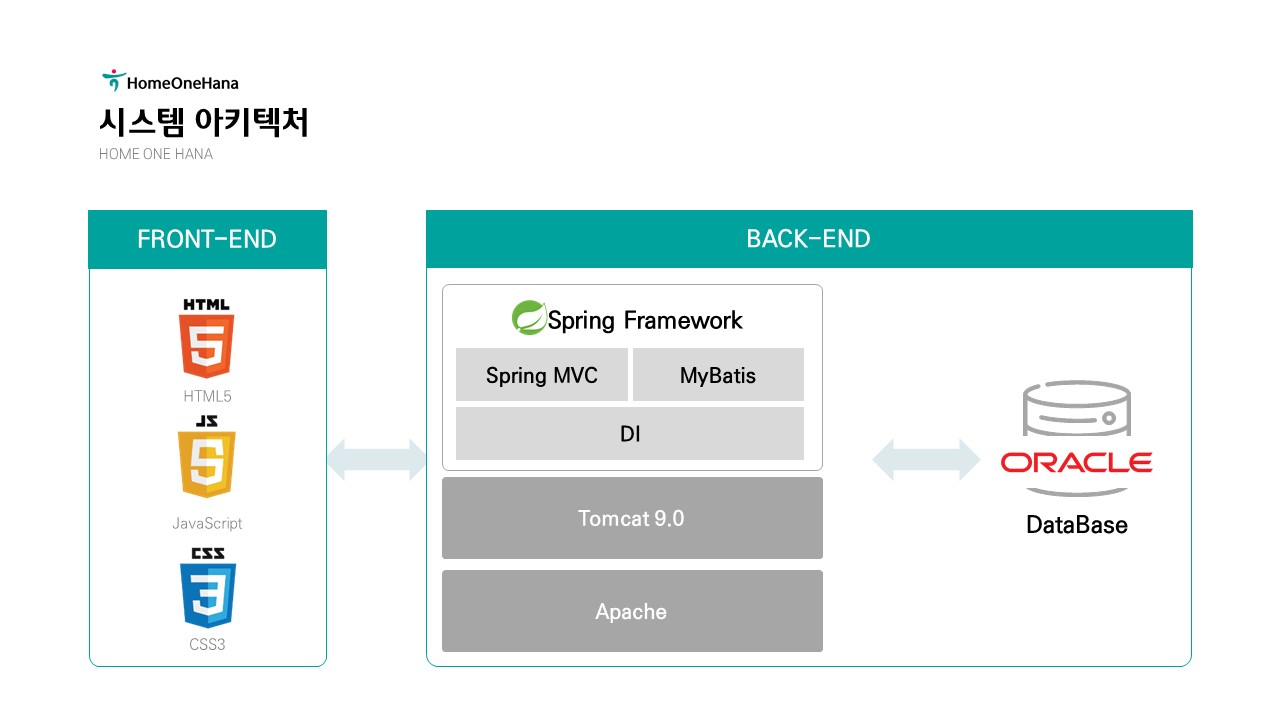
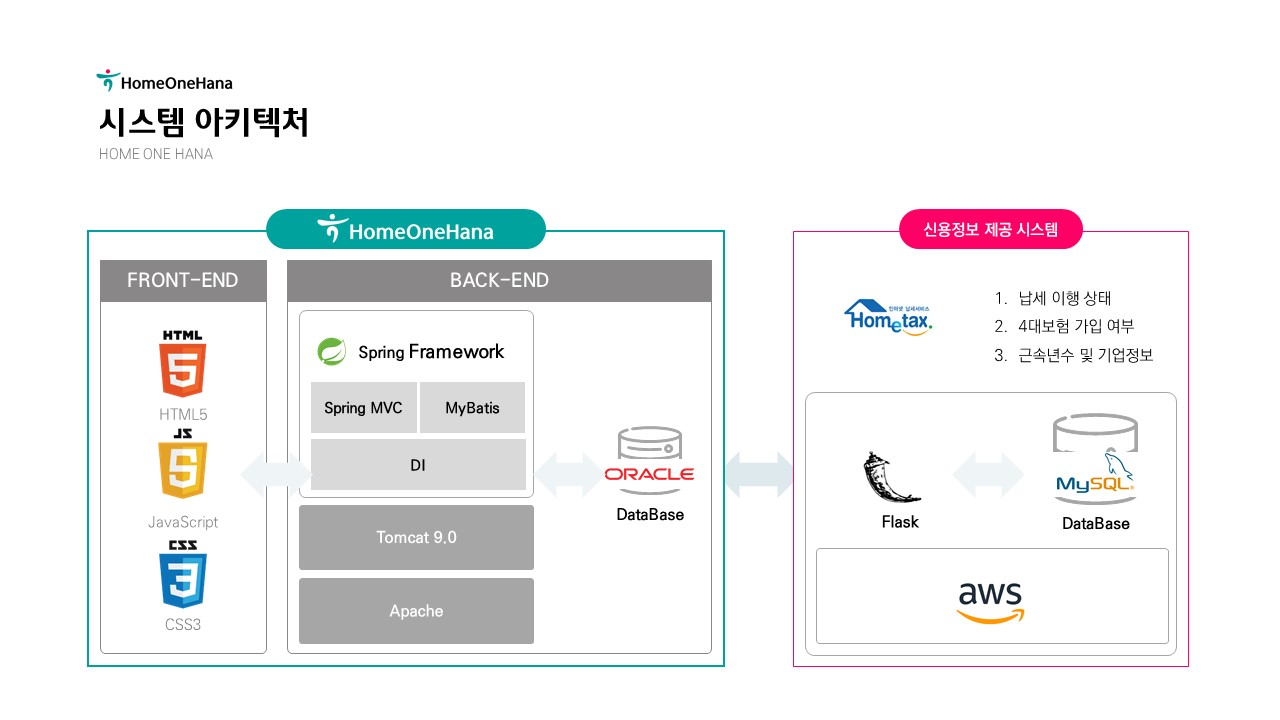
211004-credit API

Changed region(s): [[0.0625, 0.275, 0.9375, 0.9472], [0.75, 0.7944, 0.8125, 0.8861], [0.0625, 0.0917, 0.1875, 0.1222]]

diff --git a/project/flask/app.py b/project/flask/app.py
@@ -1,0 +1,43 @@
+from flask import Flask, jsonify, current_app
+from config import get_db_connection
+
+app = Flask(__name__)
+
+app.database = get_db_connection()  # 데이터 베이스와 연동해준다.
+
+def get_user(user_id):
+    sql = f"""
+        SELECT 
+            *
+        FROM credit_info
+        WHERE user_id = "{user_id}"
+    """
+    user = current_app.database.execute(sql).fetchone()
+
+    return {'user_id': user['user_id'],
+                '세금납세이행여부': user['pay_tax_yn'],
+                '4대보험 가입 여부' :
+                     {'국민연금': user['national_pension'],
+                      '건강보험': user['health_insurance'],
+                      '고용보험': user['employment_insurance'],
+                      '산재보험': user['work_insurance']
+                      },
+                '재직증명서' :
+                    {
+                    '직업': user['job'],
+                    '근속년수': user['work_year'],
+                     '기업명': user['company_name'],
+                     '상장여부': user['ipo_yn'],
+                    }}
+
+@app.route("/credit_auth_info/<user_id>", methods=['GET'])
+def get_user_info(user_id):
+    user_info = get_user(user_id)
+    return jsonify(user_info)
+
+@app.route("/")
+def main():
+    return '/credit_auth_info/<user_id> 입력하기'
+
+if __name__ == "__main__":
+    app.run(host='0.0.0.0', port=5000, debug=True)

diff --git a/project/flask/config.py b/project/flask/config.py
@@ -1,0 +1,21 @@
+from sqlalchemy import create_engine
+
+db = {
+  # 데이터베이스에 접속할 사용자 아이디
+  "user": "",
+  # 사용자 비밀번호
+  "password": "",
+  # 접속할 데이터베이스의 주소 (같은 컴퓨터에 있는 데이터베이스에 접속하기 때문에 localhost)
+  "host": "",
+  # 관계형 데이터베이스는 주로 3306 포트를 통해 연결됨
+  "port": ,
+  # 실제 사용할 데이터베이스 이름
+  "database": ""
+}
+
+
+def get_db_connection():
+  db_url = f"mysql+mysqlconnector://{db['user']}:{db['password']}@{db['host']}:{db['port']}/{db['database']}?charset=utf8"
+  database = create_engine(db_url, encoding='utf-8', max_overflow=0)
+  return database
+
